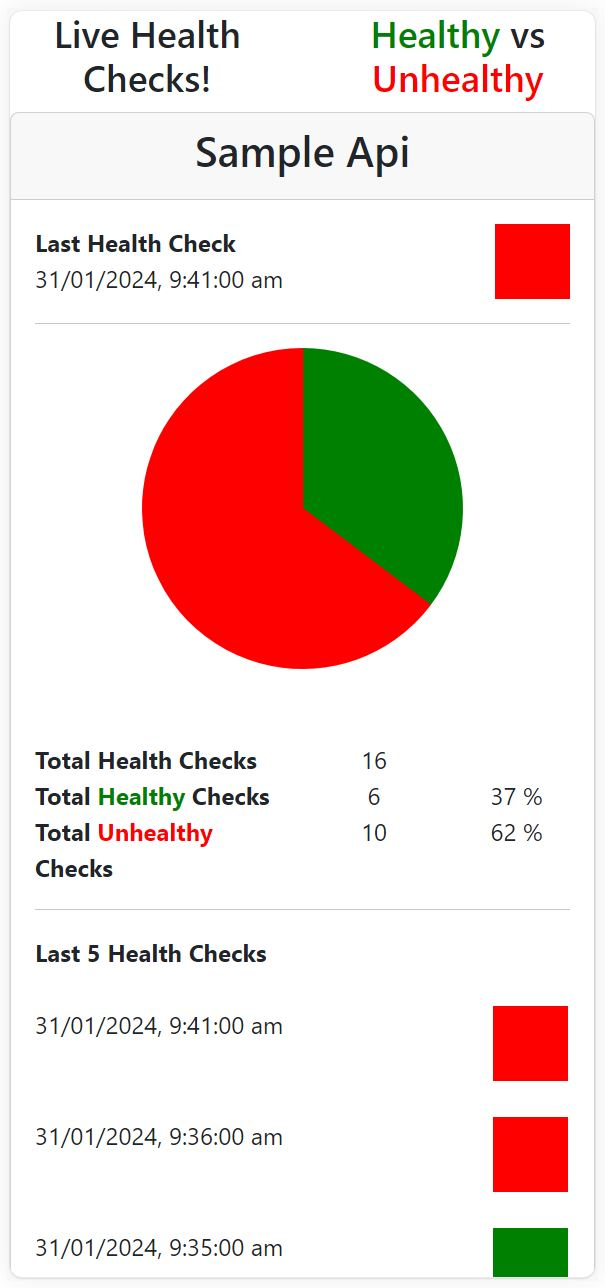
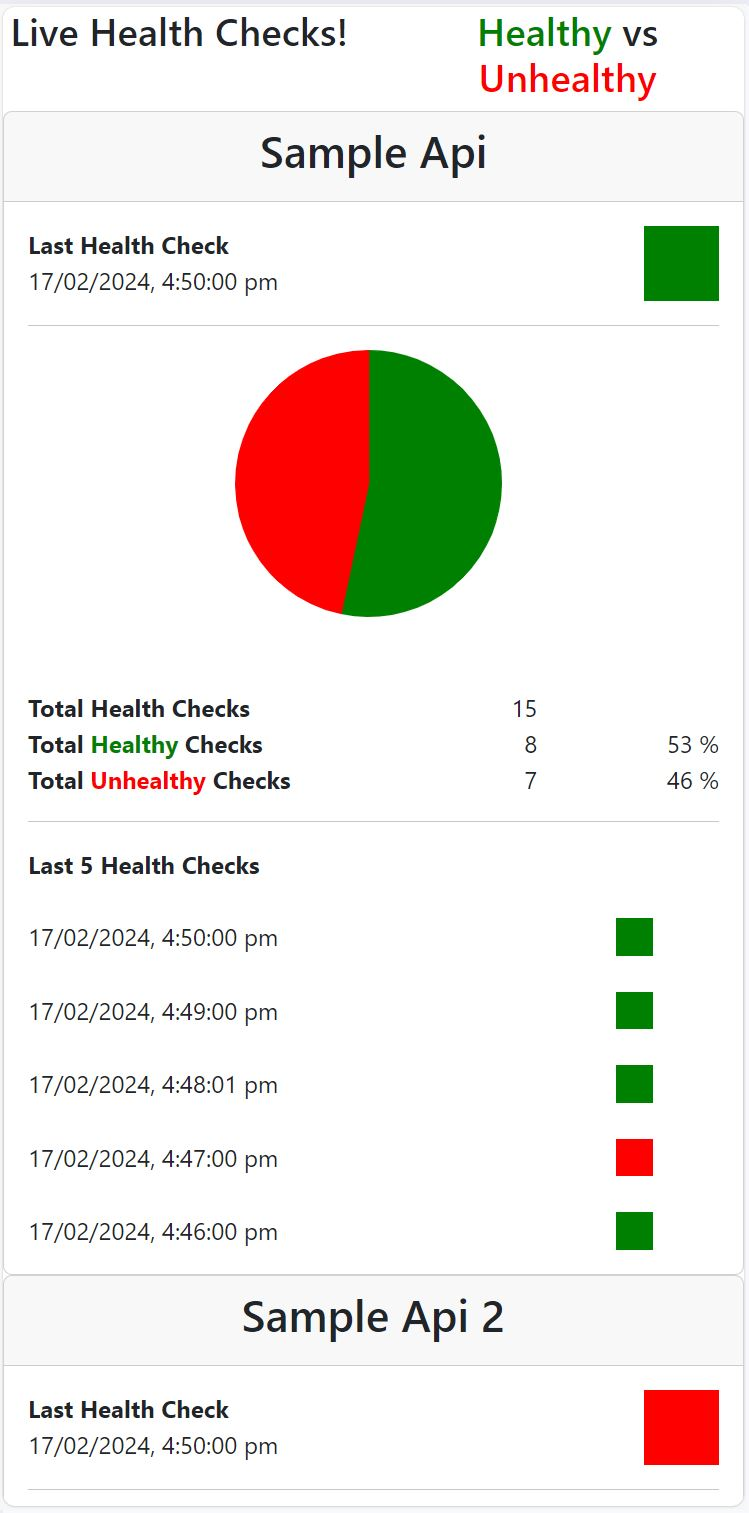
minor fixes.

diff --git a/react-livehealthchecks-ui/src/Components/ApiWidget.tsx b/react-livehealthchecks-ui/src/Components/ApiWidget.tsx
@@ -29,27 +29,16 @@ const ApiWidget: React.FC<ApiWidgetProperties> = (props) => {
 
   let [healthChecks, setHealthChecks] = useState(dbHealthChecks);  
 
-  useEffect(() => {
-    let dbResult = myHealthChecksRepository.getDbResult(props.ReceiveMethod);
-
-    if (dbResult == null) return;
-
-    let healthy = dbResult[0];
-    let unHealthy = dbResult[1];
-    
+  useEffect(() => {    
     if (lastHealthCheck.Status == 2) {
-      healthy = healthy + 1;
       setStatus('green');
     }
     else if (lastHealthCheck.Status == 1) {
-      unHealthy = unHealthy + 1;
       setStatus('red');
     }
     else {
       setStatus('');
     }
-
-    setResult([healthy, unHealthy]);
   }, [lastHealthCheck]);
 
   useEffect(()=>{
@@ -69,6 +58,7 @@ const ApiWidget: React.FC<ApiWidgetProperties> = (props) => {
     setTotalUnhealthy(totalUnhealthy);
     setHealthyPercent(healthyPercent);
     setUnhealthyPercent(unhealthyPercent);
+    setResult([totalHealthy, totalUnhealthy]);
   }, [healthChecks]);   
 
   myServerService.subscribe(props.ReceiveMethod, (report: any) => {
@@ -130,7 +120,7 @@ const ApiWidget: React.FC<ApiWidgetProperties> = (props) => {
             <hr />
             <div className="row">
                 <div className="col-12" style={{textAlign:'center'}}>
-                    <div style={{width: '60%', margin: '0 auto'}}>
+                    <div style={{width: '40%', margin: '0 auto'}}>
                         <Pie data={data} />
                     </div>                    
                 </div>
@@ -140,7 +130,7 @@ const ApiWidget: React.FC<ApiWidgetProperties> = (props) => {
               <div className="col-6" style={{textAlign: 'left'}}>
                   <b>Total Health Checks</b>
               </div>
-              <div className="col-3">
+              <div className="col-3" style={{textAlign: 'right'}}>
                   {total}
               </div>
               <div className="col-3">
@@ -151,10 +141,10 @@ const ApiWidget: React.FC<ApiWidgetProperties> = (props) => {
               <div className="col-6" style={{textAlign: 'left'}}>
                   <b>Total <span style={{color:'green'}}>Healthy</span> Checks</b>
               </div>
-              <div className="col-3">
+              <div className="col-3" style={{textAlign: 'right'}}>
                   {totalHealthy}
               </div>
-              <div className="col-3">
+              <div className="col-3" style={{textAlign: 'right'}}>
                   {healthyPercent} %
               </div>
             </div> 
@@ -162,10 +152,10 @@ const ApiWidget: React.FC<ApiWidgetProperties> = (props) => {
               <div className="col-6" style={{textAlign: 'left'}}>
                   <b>Total <span style={{color:'red'}}>Unhealthy</span> Checks</b>
               </div>
-              <div className="col-3">
+              <div className="col-3" style={{textAlign: 'right'}}>
                   {totalUnhealthy}
               </div>
-              <div className="col-3">
+              <div className="col-3" style={{textAlign: 'right'}}>
                   {unhealthyPercent} %
               </div>
             </div>           
@@ -175,7 +165,7 @@ const ApiWidget: React.FC<ApiWidgetProperties> = (props) => {
             </div>                                    
             {
               lastHealthChecks.map((hc, i) => {
-                return <div><br /><div className="row"><div className="col-10" style={{textAlign: 'left'}}>{hc.ReceiveTimeStamp?.toLocaleLowerCase()}</div><div style={{width: '50px', height: '50px', float: 'right', backgroundColor: hc.Status == 2 ? 'green' : 'red'}}></div></div></div>
+                return <div><br /><div className="row"><div className="col-10" style={{textAlign: 'left'}}>{hc.ReceiveTimeStamp?.toLocaleLowerCase()}</div><div style={{width: '25px', height: '25px', float: 'right', backgroundColor: hc.Status == 2 ? 'green' : 'red'}}></div></div></div>
               })
             }
         </div>

diff --git a/react-livehealthchecks-ui/src/App.tsx b/react-livehealthchecks-ui/src/App.tsx
@@ -28,9 +28,9 @@ const App: React.FC<{myServerService: MyServerService}> = ({myServerService}) =>
       </div>
       { 
         triple(apis).map((api, i) => {
-          return <div className="row"><div className="col-sm col-md col"><ApiWidget ApiName={api[0].ApiName} ReceiveMethod={api[0].ReceiveMethod} MyServerService={myServerService} MyHealthChecksRepository={myHealthChecksRepository} /></div>
-          {api[1] != null ? <div className="col-sm col-md col"><ApiWidget ApiName={api[1].ApiName} ReceiveMethod={api[1].ReceiveMethod} MyServerService={myServerService} MyHealthChecksRepository={myHealthChecksRepository} /></div> : <div className="col-sm col-md col"></div>}
-          {api[2] != null ? <div className="col-sm col-md col"><ApiWidget ApiName={api[2].ApiName} ReceiveMethod={api[2].ReceiveMethod} MyServerService={myServerService} MyHealthChecksRepository={myHealthChecksRepository} /></div> : <div className="col-sm col-md col"></div>}
+          return <div className="row"><div className="col-sm"><ApiWidget ApiName={api[0].ApiName} ReceiveMethod={api[0].ReceiveMethod} MyServerService={myServerService} MyHealthChecksRepository={myHealthChecksRepository} /></div>
+          {api[1] != null ? <div className="col-sm"><ApiWidget ApiName={api[1].ApiName} ReceiveMethod={api[1].ReceiveMethod} MyServerService={myServerService} MyHealthChecksRepository={myHealthChecksRepository} /></div> : <div className="col-sm"></div>}
+          {api[2] != null ? <div className="col-sm"><ApiWidget ApiName={api[2].ApiName} ReceiveMethod={api[2].ReceiveMethod} MyServerService={myServerService} MyHealthChecksRepository={myHealthChecksRepository} /></div> : <div className="col-sm"></div>}
           </div>
         })
       }      

diff --git a/react-livehealthchecks-ui/src/Services/MyServerService.ts b/react-livehealthchecks-ui/src/Services/MyServerService.ts
@@ -26,4 +26,12 @@ export class MyServerService {
         this.connection.off(receiveMethod);
         this.connection.on(receiveMethod, onHealthReportReceivedHandler);
     }
+
+    disconnect = (receiveMethod: string) => {
+      if (this.connection != null) {
+        this.connection.invoke("DisconnectAsync");
+        this.connection.off(receiveMethod);
+        this.connection = null;
+      }      
+    }
 }

diff --git a/react-livehealthchecks-ui/public/index.html b/react-livehealthchecks-ui/public/index.html
@@ -24,7 +24,7 @@
       work correctly both with client-side routing and a non-root public URL.
       Learn how to configure a non-root public URL by running `npm run build`.
     -->
-    <title>React App</title>
+    <title>LiveHealthChecks.UI</title>
   </head>
   <body>
     <noscript>You need to enable JavaScript to run this app.</noscript>
